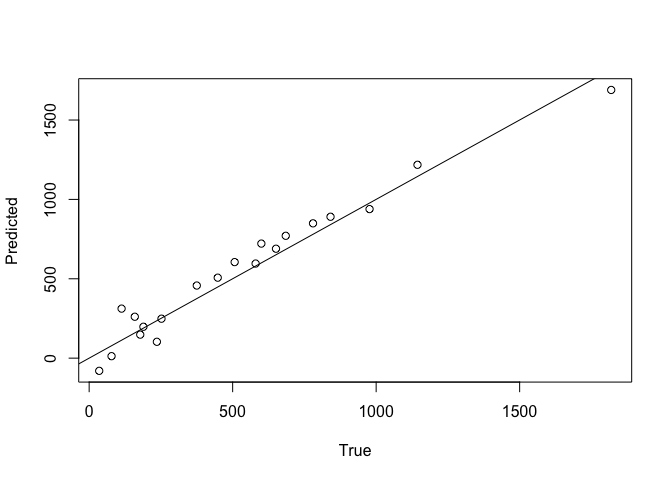
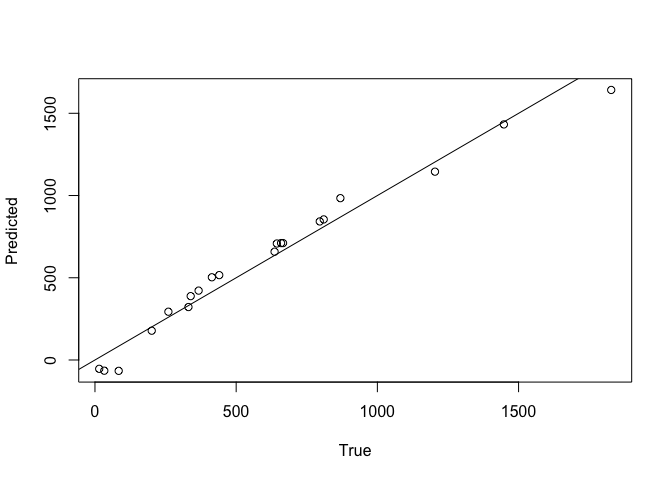
Formatting

diff --git a/README.md b/README.md
@@ -37,11 +37,11 @@ kitchen_sweep(x[1:1000,],y[1:1000],
    x[1001:2000,],y[1001:2000],
    2^(4:8),2:5, verbose = F)
 #>             2         3         4         5
-#> 16  0.5946049 0.8139390 0.9132368 0.9182396
-#> 32  0.5945316 0.8378443 0.9167573 0.9459194
-#> 64  0.5929162 0.8457773 0.9373338 0.9726036
-#> 128 0.5951418 0.8485501 0.9128126 0.9796804
-#> 256 0.5942005 0.8477965 0.9368974 0.9840639
+#> 16  0.5412895 0.7965890 0.8953042 0.8944626
+#> 32  0.5426115 0.8249299 0.9013947 0.9227606
+#> 64  0.5435026 0.8378835 0.9276522 0.9729043
+#> 128 0.5435981 0.8382451 0.9373876 0.9775089
+#> 256 0.5438259 0.8380298 0.9390492 0.9817828
 #Models with 5 features appear to perform well.
 
 #Now, predict b given data with the same organization as x.
@@ -51,19 +51,21 @@ b <- 5*a[,1] + 20*a[,1]*a[,2] + 3*a[,3]^2 - 10*a[,4] - 2*a[,5]
 mybootstrap <- kitchen_prediction(x,y,a,
                                   features=64,windows=5,bootstrap=10,
                                   verbose = F)
+
+#Lets plot the mean of our predictions versus the true values
 plot(b, rowMeans(mybootstrap[[1]][[1]]),
      xlab = "True", ylab = "Predicted"); abline(0, 1)
 ```
 
 <img src="man/figures/README-example-1.png" width="40%" />
 
-\##Author(s)
+## Author(s)
 
 Avery M. Kruger
 
 Maintainer: Avery M. Kruger, <avery.kruger@botany.ubc.ca>
 
-\##References
+## References
 
 Kruger, A. M., Shankar, V., Davies, T.S. (2024) Inferring the
 Evolutionary Model of Community-Structuring Traits with Convolutional
